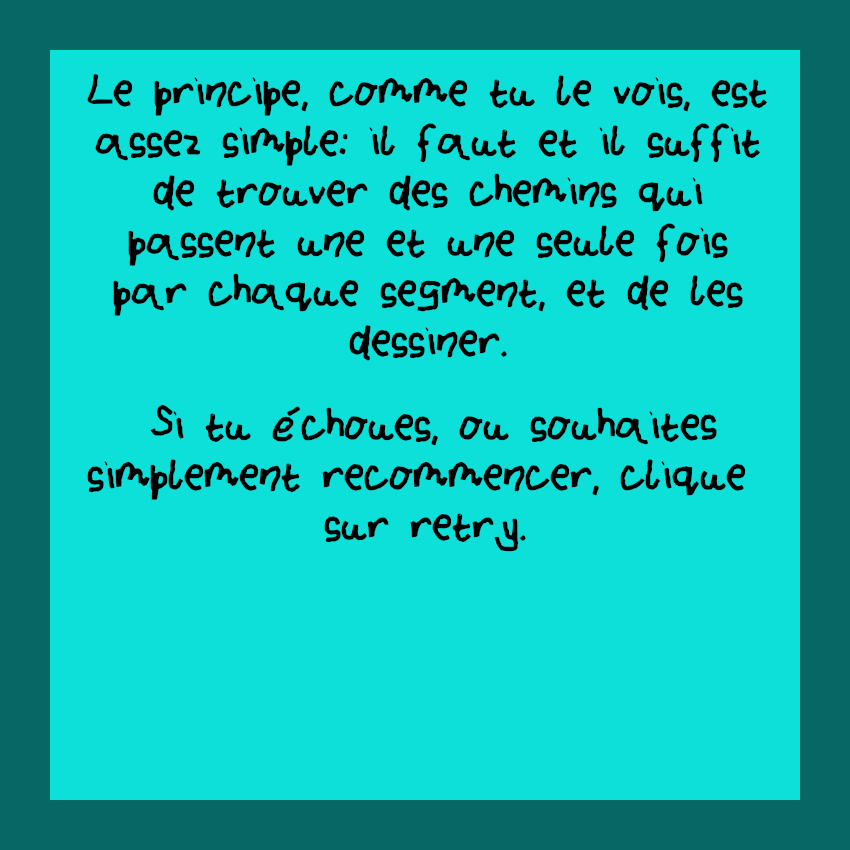
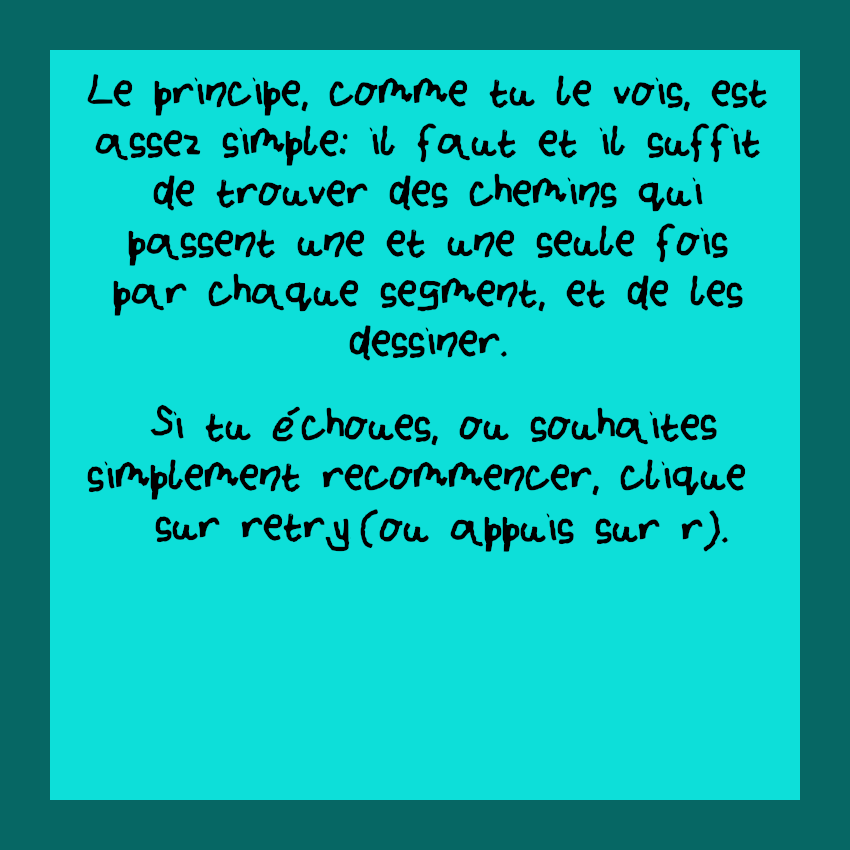
Implemented keybindings and updated tutorial with them

diff --git a/src/ui/Partie.java b/src/ui/Partie.java
@@ -15,7 +15,6 @@ public class Partie extends JPanel {
 	Image background;
 	JButton regenerer;
 	JButton editeur;
-	JButton menu;
 	JLabel timer;
 	JLabel aides;
 	JLabel pack_actuel;
@@ -70,6 +69,30 @@ public class Partie extends JPanel {
 	}
 
 	public Partie(App app, Image bg, String pack, VueGraphe vg, int level, Font font) {
+		setFocusable(true);
+		SwingUtilities.invokeLater(() -> {
+			requestFocus();
+		});
+		addKeyListener(new KeyAdapter() {
+			public void keyPressed(KeyEvent ev) {
+				if (ev.getKeyCode() == app.settings.retryKey) {
+					regenerer.doClick();
+				} else if (ev.getKeyCode() == app.settings.menuKey) {
+					app.frame.setContentPane(new Menu(app));
+					app.frame.revalidate();
+					app.frame.repaint();
+				} else if (ev.getKeyCode() == app.settings.evidentMoveKey) {
+					if (g.get_selected() == -1) {
+						return;
+					}
+					var moves = g.getGraphe().getConnexions(g.get_selected());
+					if (moves.size() == 1) {
+						next_point(moves.get(0));
+					}
+				}
+			}
+		});
+
 		this.font = font;
 		packname = pack != null ? pack : "ALL";
 		omega = pack == null;
@@ -119,12 +142,6 @@ public class Partie extends JPanel {
 			app.frame.repaint();
 		});
 
-		menu = Utils.generate_button("retour-menu", e -> {
-			app.frame.setContentPane(new Menu(app));
-			app.frame.revalidate();
-			app.frame.repaint();
-		});
-
 		regenerer = Utils.generate_button("retry", e -> {
 			indice_solution = 0;
 			g.setGraphe(current_g, current_c);
@@ -139,7 +156,6 @@ public class Partie extends JPanel {
 
 		add(regenerer);
 		add(aide);
-		add(menu);
 		testing_editing = vg != null;
 		if (testing_editing) {
 			add(editeur);
@@ -170,7 +186,6 @@ public class Partie extends JPanel {
 		regenerer.setBounds(getWidth() - 120, 710, 90, 50);
 		editeur.setBounds(getWidth() - 200, 800, 90, 50);
 		aide.setBounds(getWidth() - 120, 620, 90, 50);
-		menu.setBounds(getWidth() - 120, 550, 80, 50);
 		pack_actuel.setBounds(getWidth() - 300, 250, 300, 200);
 		timer.setBounds(getWidth() - 300, 280, 300, 200);
 		aides.setBounds(getWidth() - 300, 310, 300, 200);

diff --git a/src/ui/Editeur.java b/src/ui/Editeur.java
@@ -37,6 +37,20 @@ public class Editeur extends JPanel {
 	private Font font;
 
 	public Editeur(App app, Image bg, String pack, VueGraphe vg, int level, Font font) {
+		setFocusable(true);
+		SwingUtilities.invokeLater(() -> {
+			requestFocus();
+		});
+		addKeyListener(new KeyAdapter() {
+			public void keyPressed(KeyEvent ev) {
+				if (ev.getKeyCode() == app.settings.menuKey) {
+					app.frame.setContentPane(new Menu(app));
+					app.frame.revalidate();
+					app.frame.repaint();
+				}
+			}
+		});
+
 		background = bg;
 		this.font = font;
 		this.app = app;

diff --git a/src/ui/VueSettings.java b/src/ui/VueSettings.java
@@ -8,6 +8,20 @@ public class VueSettings extends JPanel {
 	Image background;
 
 	public VueSettings(App app) {
+		setFocusable(true);
+		SwingUtilities.invokeLater(() -> {
+			requestFocus();
+		});
+		addKeyListener(new KeyAdapter() {
+			public void keyPressed(KeyEvent ev) {
+				if (ev.getKeyCode() == app.settings.menuKey) {
+					app.frame.setContentPane(new Menu(app));
+					app.frame.revalidate();
+					app.frame.repaint();
+				}
+			}
+		});
+
 		this.app = app;
 
 		try {

diff --git a/src/model/Settings.java b/src/model/Settings.java
@@ -24,7 +24,7 @@ public class Settings {
 	public Settings() {
 		retryKey = KeyEvent.VK_R;
 		menuKey = KeyEvent.VK_ESCAPE;
-		evidentMoveKey = KeyEvent.VK_M;
+		evidentMoveKey = KeyEvent.VK_SPACE;
 		oneClickMouseMove = false;
 		graphColor = Color.BLUE;
 		zoom = 1;

diff --git a/src/misc/Utils.java b/src/misc/Utils.java
@@ -10,6 +10,7 @@ public abstract class Utils {
 		button.setContentAreaFilled(false);
 		button.setFocusPainted(false);
 		button.addActionListener(listener);
+		button.setFocusable(false);
 		return button;
 	}
 
